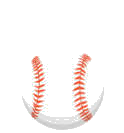
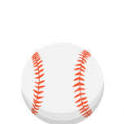
Balones mas grandes y con recorte circular limpio

diff --git a/backend/src/main/resources/static/assets/index-DDRv2PJQ.js b/backend/src/main/resources/static/assets/index-DDRv2PJQ.js
@@ -64,4 +64,4 @@ Error generating stack: `+i.message+`
  * LICENSE.md file in the root directory of this source tree.
  *
  * @license MIT
- */function oo(){return oo=Object.assign?Object.assign.bind():function(e){for(var t=1;t<arguments.length;t++){var n=arguments[t];for(var r in n)({}).hasOwnProperty.call(n,r)&&(e[r]=n[r])}return e},oo.apply(null,arguments)}function Nh(e,t){if(e==null)return{};var n={};for(var r in e)if({}.hasOwnProperty.call(e,r)){if(t.indexOf(r)!==-1)continue;n[r]=e[r]}return n}function Ph(e){return!!(e.metaKey||e.altKey||e.ctrlKey||e.shiftKey)}function _h(e,t){return e.button===0&&(!t||t==="_self")&&!Ph(e)}const jh=["onClick","relative","reloadDocument","replace","state","target","to","preventScrollReset","viewTransition"],zh="6";try{window.__reactRouterVersion=zh}catch{}const Rh="startTransition",Ss=kf[Rh];function Th(e){let{basename:t,children:n,future:r,window:l}=e,i=S.useRef();i.current==null&&(i.current=Ip({window:l,v5Compat:!0}));let o=i.current,[u,s]=S.useState({action:o.action,location:o.location}),{v7_startTransition:a}=r||{},h=S.useCallback(p=>{a&&Ss?Ss(()=>s(p)):s(p)},[s,a]);return S.useLayoutEffect(()=>o.listen(h),[o,h]),S.useEffect(()=>Sh(r),[r]),S.createElement(Eh,{basename:t,children:n,location:u.location,navigationType:u.action,navigator:o,future:r})}const Lh=typeof window<"u"&&typeof window.document<"u"&&typeof window.document.createElement<"u",Oh=/^(?:[a-z][a-z0-9+.-]*:|\/\/)/i,qc=S.forwardRef(function(t,n){let{onClick:r,relative:l,reloadDocument:i,replace:o,state:u,target:s,to:a,preventScrollReset:h,viewTransition:p}=t,m=Nh(t,jh),{basename:y}=S.useContext(Et),w,x=!1;if(typeof a=="string"&&Oh.test(a)&&(w=a,Lh))try{let f=new URL(window.location.href),g=a.startsWith("//")?new URL(f.protocol+a):new URL(a),E=nu(g.pathname,y);g.origin===f.origin&&E!=null?a=E+g.search+g.hash:x=!0}catch{}let C=oh(a,{relative:l}),d=Ih(a,{replace:o,state:u,target:s,preventScrollReset:h,relative:l,viewTransition:p});function c(f){r&&r(f),f.defaultPrevented||d(f)}return S.createElement("a",oo({},m,{href:w||C,onClick:x||i?r:c,ref:n,target:s}))});var ks;(function(e){e.UseScrollRestoration="useScrollRestoration",e.UseSubmit="useSubmit",e.UseSubmitFetcher="useSubmitFetcher",e.UseFetcher="useFetcher",e.useViewTransitionState="useViewTransitionState"})(ks||(ks={}));var Es;(function(e){e.UseFetcher="useFetcher",e.UseFetchers="useFetchers",e.UseScrollRestoration="useScrollRestoration"})(Es||(Es={}));function Ih(e,t){let{target:n,replace:r,state:l,preventScrollReset:i,relative:o,viewTransition:u}=t===void 0?{}:t,s=At(),a=pr(),h=Jc(e,{relative:o});return S.useCallback(p=>{if(_h(p,n)){p.preventDefault();let m=r!==void 0?r:ml(a)===ml(h);s(e,{replace:m,state:l,preventScrollReset:i,relative:o,viewTransition:u})}},[a,s,h,r,l,n,e,i,o,u])}const Mh="/api";function Dh(){return localStorage.getItem("token")}function bc(e){localStorage.setItem("token",e)}function ef(){localStorage.removeItem("token")}function xn(){const e=localStorage.getItem("usuario");return e?JSON.parse(e):null}function tf(e){localStorage.setItem("usuario",JSON.stringify(e))}async function We(e,t={}){const n=Dh(),r={"Content-Type":"application/json"};n&&(r.Authorization=`Bearer ${n}`);const l=await fetch(Mh+e,{...t,headers:r});if(l.status===401){ef(),window.location.href="/login";return}return l.json()}function Fh(e,t){return We("/auth/login",{method:"POST",body:JSON.stringify({email:e,password:t})})}function Uh(e,t,n,r){return We("/auth/register",{method:"POST",body:JSON.stringify({nombre:e,email:t,password:n,rol:r})})}function Cs(){return We("/equipos")}function $h(e){return We("/equipos",{method:"POST",body:JSON.stringify({nombre:e})})}function Ns(e){return We("/equipos/"+e)}function Ah(e,t){return We("/equipos/"+e+"/jugadores",{method:"POST",body:JSON.stringify({email:t})})}function Ps(e){return We("/equipos/"+e+"/convocatorias")}function Bh(e,t){return We("/equipos/"+e+"/convocatorias",{method:"POST",body:JSON.stringify(t)})}function _s(e){return We("/convocatorias/"+e+"/asistencia")}function Wh(e,t){return We("/convocatorias/"+e+"/asistencia",{method:"PUT",body:JSON.stringify({estado:t})})}function Vh(){const e=At(),t=xn();function n(){ef(),localStorage.removeItem("usuario"),e("/login")}return v.jsxs("nav",{className:"navbar",children:[v.jsx("h1",{style:{cursor:"pointer"},onClick:()=>e("/"),children:"ClubPlan"}),v.jsxs("div",{className:"navbar-right",children:[v.jsxs("span",{className:"navbar-user",children:[v.jsx("strong",{children:t==null?void 0:t.nombre})," · ",(t==null?void 0:t.rol)==="ENTRENADOR"?"Entrenador":"Jugador"]}),v.jsx("button",{onClick:n,children:"Cerrar sesion"})]})]})}const Hh=["/balls/soccer.png","/balls/basketball.png","/balls/baseball.png","/balls/tennis.png","/balls/volleyball.png","/balls/football.png","/balls/hockey.png"],ai=[{size:90,speed:2.5,rot:1.2},{size:100,speed:3,rot:-1},{size:80,speed:2.8,rot:1.4},{size:70,speed:3.5,rot:-1.6},{size:95,speed:2.2,rot:.9},{size:75,speed:3.2,rot:-1.3},{size:65,speed:3.8,rot:1.5}];function Qh(){const[e,t]=S.useState(""),[n,r]=S.useState(""),[l,i]=S.useState(""),o=At(),u=S.useRef(null),s=S.useRef(null),a=S.useRef([]),h=S.useRef([]);function p(y,w){const x=y.getBoundingClientRect(),C=w.getBoundingClientRect();return{left:C.left-x.left-30,top:C.top-x.top-30,right:C.right-x.left+30,bottom:C.bottom-x.top+30}}S.useLayoutEffect(()=>{const y=u.current,w=s.current;if(!y||!w)return;const x=y.clientWidth,C=y.clientHeight,d=p(y,w);h.current=ai.map((g,E)=>{let _,j,z=0;do _=Math.random()*(x-g.size),j=Math.random()*(C-g.size),z++;while(z<100&&_+g.size>d.left&&_<d.right&&j+g.size>d.top&&j<d.bottom);const N=Math.PI*2/ai.length*E+Math.random()*.5;return{x:_,y:j,dx:Math.cos(N)*g.speed,dy:Math.sin(N)*g.speed,r:Math.random()*360,dr:g.rot,size:g.size}}),h.current.forEach((g,E)=>{a.current[E]&&(a.current[E].style.transform="translate("+g.x+"px,"+g.y+"px) rotate("+g.r+"deg)")});let c;function f(){const g=u.current,E=s.current;if(!g||!E)return;const _=g.clientWidth,j=g.clientHeight,z=p(g,E);h.current.forEach((N,L)=>{let Q=N.x+N.dx,se=N.y+N.dy;if(N.r+=N.dr,Q<=0&&(Q=0,N.dx=Math.abs(N.dx)),Q>=_-N.size&&(Q=_-N.size,N.dx=-Math.abs(N.dx)),se<=0&&(se=0,N.dy=Math.abs(N.dy)),se>=j-N.size&&(se=j-N.size,N.dy=-Math.abs(N.dy)),Q+N.size>z.left&&Q<z.right&&se+N.size>z.top&&se<z.bottom){const et=N.x+N.size>z.left&&N.x<z.right,Sn=N.y+N.size>z.top&&N.y<z.bottom;et||(N.dx=-N.dx,Q=N.x+N.dx),Sn||(N.dy=-N.dy,se=N.y+N.dy),et&&Sn&&(N.dx=-N.dx,N.dy=-N.dy,Q=N.x+N.dx,se=N.y+N.dy)}N.x=Q,N.y=se,a.current[L]&&(a.current[L].style.transform="translate("+N.x+"px,"+N.y+"px) rotate("+N.r+"deg)")}),c=requestAnimationFrame(f)}return c=requestAnimationFrame(f),()=>cancelAnimationFrame(c)},[]);async function m(y){y.preventDefault();const w=await Fh(e,n);w.error?i(w.error):(bc(w.token),tf(w.usuario),o("/"))}return v.jsxs("div",{className:"login-bg",ref:u,children:[ai.map((y,w)=>v.jsx("div",{ref:x=>a.current[w]=x,className:"bouncing-icon",children:v.jsx("img",{src:Hh[w],alt:"",width:y.size,height:y.size,draggable:"false"})},w)),v.jsxs("div",{className:"login-card",ref:s,children:[v.jsx("div",{className:"login-logo",children:"ClubPlan"}),v.jsx("h2",{children:"Iniciar sesion"}),v.jsx("p",{className:"login-subtitle",children:"Gestiona tus equipos y convocatorias"}),l&&v.jsx("p",{className:"error",children:l}),v.jsxs("form",{onSubmit:m,children:[v.jsxs("div",{className:"form-group",children:[v.jsx("label",{children:"Email"}),v.jsx("input",{type:"email",value:e,onChange:y=>t(y.target.value),placeholder:"tu@email.com",required:!0})]}),v.jsxs("div",{className:"form-group",children:[v.jsx("label",{children:"Contrasena"}),v.jsx("input",{type:"password",value:n,onChange:y=>r(y.target.value),placeholder:"Tu contrasena",required:!0})]}),v.jsx("button",{type:"submit",className:"btn btn-primary",style:{width:"100%",padding:"14px"},children:"Entrar"})]}),v.jsxs("p",{style:{marginTop:"20px",textAlign:"center",fontSize:"0.9rem",color:"var(--texto-suave)"},children:["No tienes cuenta? ",v.jsx(qc,{to:"/register",style:{color:"var(--primary)",fontWeight:"600",textDecoration:"none"},children:"Registrate"})]})]})]})}function Kh(){const[e,t]=S.useState(""),[n,r]=S.useState(""),[l,i]=S.useState(""),[o,u]=S.useState("JUGADOR"),[s,a]=S.useState(""),h=At();async function p(m){m.preventDefault();const y=await Uh(e,n,l,o);y.error?a(y.error):(bc(y.token),tf(y.usuario),h("/"))}return v.jsx("div",{className:"login-bg",children:v.jsxs("div",{className:"login-card",children:[v.jsx("div",{className:"login-logo",children:"ClubPlan"}),v.jsx("h2",{children:"Crear cuenta"}),v.jsx("p",{className:"login-subtitle",children:"Unete a tu equipo"}),s&&v.jsx("p",{className:"error",children:s}),v.jsxs("form",{onSubmit:p,children:[v.jsxs("div",{className:"form-group",children:[v.jsx("label",{children:"Nombre"}),v.jsx("input",{value:e,onChange:m=>t(m.target.value),placeholder:"Tu nombre",required:!0})]}),v.jsxs("div",{className:"form-group",children:[v.jsx("label",{children:"Email"}),v.jsx("input",{type:"email",value:n,onChange:m=>r(m.target.value),placeholder:"tu@email.com",required:!0})]}),v.jsxs("div",{className:"form-group",children:[v.jsx("label",{children:"Contrasena"}),v.jsx("input",{type:"password",value:l,onChange:m=>i(m.target.value),placeholder:"Tu contrasena",required:!0})]}),v.jsxs("div",{className:"form-group",children:[v.jsx("label",{children:"Rol"}),v.jsxs("select",{value:o,onChange:m=>u(m.target.value),children:[v.jsx("option",{value:"ENTRENADOR",children:"Entrenador"}),v.jsx("option",{value:"JUGADOR",children:"Jugador"})]})]}),v.jsx("button",{type:"submit",className:"btn btn-primary",style:{width:"100%",padding:"14px"},children:"Registrarme"})]}),v.jsxs("p",{style:{marginTop:"20px",textAlign:"center",fontSize:"0.9rem",color:"var(--texto-suave)"},children:["Ya tienes cuenta? ",v.jsx(qc,{to:"/login",style:{color:"var(--primary)",fontWeight:"600",textDecoration:"none"},children:"Inicia sesion"})]})]})})}function Yh(){const[e,t]=S.useState([]),[n,r]=S.useState(""),[l,i]=S.useState(!1),o=At(),u=xn();S.useEffect(()=>{Cs().then(t)},[]);async function s(a){a.preventDefault(),await $h(n),r(""),i(!1),Cs().then(t)}return v.jsxs("div",{className:"container",children:[v.jsxs("div",{className:"flex-between",children:[v.jsxs("div",{className:"page-header",children:[v.jsx("h2",{children:"Mis equipos"}),v.jsxs("p",{children:[e.length," equipo",e.length!==1?"s":""]})]}),(u==null?void 0:u.rol)==="ENTRENADOR"&&v.jsx("button",{className:"btn btn-primary",onClick:()=>i(!l),children:l?"Cancelar":"+ Nuevo equipo"})]}),l&&v.jsxs("form",{onSubmit:s,className:"card",style:{display:"flex",gap:"12px",alignItems:"flex-end"},children:[v.jsxs("div",{style:{flex:1},children:[v.jsx("label",{style:{display:"block",marginBottom:"6px",fontWeight:"600",fontSize:"0.85rem"},children:"Nombre del equipo"}),v.jsx("input",{placeholder:"Ej: Juvenil A",value:n,onChange:a=>r(a.target.value),required:!0,style:{width:"100%",padding:"12px 14px",border:"2px solid var(--borde)",borderRadius:"10px",fontSize:"0.95rem",fontFamily:"inherit"}})]}),v.jsx("button",{type:"submit",className:"btn btn-primary",style:{height:"46px"},children:"Crear"})]}),v.jsx("div",{className:"grid",children:e.map(a=>{var h;return v.jsxs("div",{className:"card card-clickable",onClick:()=>o("/equipo/"+a.id),children:[v.jsx("div",{className:"card-icon card-icon-purple",children:"⚽"}),v.jsx("h3",{children:a.nombre}),v.jsxs("p",{children:["Entrenador: ",((h=a.entrenador)==null?void 0:h.nombre)||"Tu"]})]},a.id)})}),e.length===0&&v.jsxs("div",{className:"empty-state",children:[v.jsx("div",{className:"empty-icon",children:"⚽"}),v.jsx("p",{children:"No tienes equipos todavia"})]})]})}function Jh(){var C,d,c;const{id:e}=Yc(),t=At(),n=xn(),[r,l]=S.useState(null),[i,o]=S.useState([]),[u,s]=S.useState(""),[a,h]=S.useState({titulo:"",descripcion:"",fecha:"",lugar:""}),[p,m]=S.useState(!1);S.useEffect(()=>{Ns(e).then(l),Ps(e).then(o)},[e]);const y=((C=r==null?void 0:r.entrenador)==null?void 0:C.id)===(n==null?void 0:n.id);async function w(f){f.preventDefault(),await Ah(e,u),s(""),Ns(e).then(l)}async function x(f){f.preventDefault(),await Bh(e,a),h({titulo:"",descripcion:"",fecha:"",lugar:""}),m(!1),Ps(e).then(o)}return r?v.jsxs("div",{className:"container",children:[v.jsxs("div",{className:"page-header",children:[v.jsx("h2",{children:r.nombre}),v.jsxs("p",{children:["Entrenador: ",r.entrenador.nombre," — ",((d=r.jugadores)==null?void 0:d.length)||0," jugadores"]})]}),y&&v.jsxs("div",{className:"card",children:[v.jsx("h3",{style:{marginBottom:"16px"},children:"Jugadores del equipo"}),(c=r.jugadores)==null?void 0:c.map(f=>v.jsx("div",{className:"jugador-row",children:v.jsxs("div",{className:"jugador-info",children:[v.jsx("div",{className:"jugador-avatar",children:f.nombre.charAt(0).toUpperCase()}),v.jsxs("div",{children:[v.jsx("div",{style:{fontWeight:"600",fontSize:"0.95rem"},children:f.nombre}),v.jsx("div",{style:{color:"var(--texto-suave)",fontSize:"0.8rem"},children:f.email})]})]})},f.id)),(!r.jugadores||r.jugadores.length===0)&&v.jsx("p",{style:{color:"var(--texto-suave)",fontSize:"0.9rem",marginBottom:"12px"},children:"No hay jugadores todavia"}),v.jsxs("form",{onSubmit:w,style:{display:"flex",gap:"8px",marginTop:"16px"},children:[v.jsx("input",{type:"email",placeholder:"Email del jugador",value:u,onChange:f=>s(f.target.value),required:!0,style:{flex:1,padding:"10px 14px",border:"2px solid var(--borde)",borderRadius:"10px",fontSize:"0.9rem",fontFamily:"inherit"}}),v.jsx("button",{type:"submit",className:"btn btn-outline",children:"Anadir"})]})]}),v.jsxs("div",{className:"flex-between",style:{marginTop:"28px"},children:[v.jsx("h3",{style:{fontSize:"1.2rem",fontWeight:"700"},children:"Convocatorias"}),y&&v.jsx("button",{className:"btn btn-primary",onClick:()=>m(!p),children:p?"Cancelar":"+ Nueva convocatoria"})]}),p&&v.jsxs("form",{onSubmit:x,className:"card",children:[v.jsxs("div",{className:"form-group",children:[v.jsx("label",{children:"Titulo"}),v.jsx("input",{value:a.titulo,onChange:f=>h({...a,titulo:f.target.value}),placeholder:"Ej: Partido vs Alzira",required:!0})]}),v.jsxs("div",{className:"form-group",children:[v.jsx("label",{children:"Descripcion"}),v.jsx("textarea",{value:a.descripcion,onChange:f=>h({...a,descripcion:f.target.value}),rows:"3",placeholder:"Detalles de la convocatoria"})]}),v.jsxs("div",{style:{display:"grid",gridTemplateColumns:"1fr 1fr",gap:"12px"},children:[v.jsxs("div",{className:"form-group",children:[v.jsx("label",{children:"Fecha y hora"}),v.jsx("input",{type:"datetime-local",value:a.fecha,onChange:f=>h({...a,fecha:f.target.value}),required:!0})]}),v.jsxs("div",{className:"form-group",children:[v.jsx("label",{children:"Lugar"}),v.jsx("input",{value:a.lugar,onChange:f=>h({...a,lugar:f.target.value}),placeholder:"Ej: Campo Municipal"})]})]}),v.jsx("button",{type:"submit",className:"btn btn-primary",children:"Crear convocatoria"})]}),i.map(f=>v.jsx("div",{className:"card card-clickable",onClick:()=>t("/convocatoria/"+f.id),children:v.jsxs("div",{style:{display:"flex",justifyContent:"space-between",alignItems:"center"},children:[v.jsxs("div",{children:[v.jsx("h3",{children:f.titulo}),v.jsxs("p",{children:[f.lugar," — ",new Date(f.fecha).toLocaleString("es-ES")]})]}),v.jsx("span",{style:{color:"var(--primary)",fontSize:"1.2rem"},children:"›"})]})},f.id)),i.length===0&&v.jsxs("div",{className:"empty-state",children:[v.jsx("div",{className:"empty-icon",children:"📅"}),v.jsx("p",{children:"No hay convocatorias todavia"})]})]}):v.jsx("div",{className:"container",children:v.jsx("p",{children:"Cargando..."})})}function Xh(){const{id:e}=Yc(),t=xn(),[n,r]=S.useState([]);S.useEffect(()=>{_s(e).then(r)},[e]);async function l(a){await Wh(e,a),_s(e).then(r)}const i=n.find(a=>a.jugador.id===(t==null?void 0:t.id)),o=n.filter(a=>a.estado==="CONFIRMADO").length,u=n.filter(a=>a.estado==="RECHAZADO").length,s=n.filter(a=>a.estado==="PENDIENTE").length;return v.jsxs("div",{className:"container",children:[v.jsxs("div",{className:"page-header",children:[v.jsx("h2",{children:"Asistencia"}),v.jsxs("p",{children:[n.length," jugadores convocados"]})]}),v.jsxs("div",{className:"stat-cards",children:[v.jsxs("div",{className:"stat-card",children:[v.jsx("div",{className:"stat-number",style:{color:"var(--accent)"},children:o}),v.jsx("p",{children:"Confirmados"})]}),v.jsxs("div",{className:"stat-card",children:[v.jsx("div",{className:"stat-number",style:{color:"var(--rojo)"},children:u}),v.jsx("p",{children:"Rechazados"})]}),v.jsxs("div",{className:"stat-card",children:[v.jsx("div",{className:"stat-number",style:{color:"var(--amarillo)"},children:s}),v.jsx("p",{children:"Pendientes"})]})]}),i&&v.jsxs("div",{className:"card",children:[v.jsx("h3",{style:{marginBottom:"12px"},children:"Tu respuesta"}),v.jsxs("p",{style:{marginBottom:"16px"},children:["Estado actual: ",v.jsx("span",{className:"badge badge-"+i.estado.toLowerCase(),children:i.estado})]}),v.jsxs("div",{style:{display:"flex",gap:"10px"},children:[v.jsx("button",{className:"btn btn-accent",onClick:()=>l("CONFIRMADO"),children:"Confirmar asistencia"}),v.jsx("button",{className:"btn btn-danger",onClick:()=>l("RECHAZADO"),children:"No puedo ir"})]})]}),v.jsx("h3",{style:{marginTop:"28px",marginBottom:"16px",fontSize:"1.1rem",fontWeight:"700"},children:"Lista de jugadores"}),n.map(a=>v.jsx("div",{className:"card",style:{padding:"16px 24px"},children:v.jsxs("div",{className:"jugador-row",style:{borderBottom:"none",padding:0},children:[v.jsxs("div",{className:"jugador-info",children:[v.jsx("div",{className:"jugador-avatar",children:a.jugador.nombre.charAt(0).toUpperCase()}),v.jsx("span",{style:{fontWeight:"600"},children:a.jugador.nombre})]}),v.jsx("span",{className:"badge badge-"+a.estado.toLowerCase(),children:a.estado})]})},a.id))]})}function ci({children:e}){return xn()?e:v.jsx(kh,{to:"/login"})}function Gh(){return v.jsxs(v.Fragment,{children:[xn()&&v.jsx(Vh,{}),v.jsxs(Ch,{children:[v.jsx(Wt,{path:"/login",element:v.jsx(Qh,{})}),v.jsx(Wt,{path:"/register",element:v.jsx(Kh,{})}),v.jsx(Wt,{path:"/",element:v.jsx(ci,{children:v.jsx(Yh,{})})}),v.jsx(Wt,{path:"/equipo/:id",element:v.jsx(ci,{children:v.jsx(Jh,{})})}),v.jsx(Wt,{path:"/convocatoria/:id",element:v.jsx(ci,{children:v.jsx(Xh,{})})})]})]})}fi.createRoot(document.getElementById("root")).render(v.jsx(Th,{children:v.jsx(Gh,{})}));
+ */function oo(){return oo=Object.assign?Object.assign.bind():function(e){for(var t=1;t<arguments.length;t++){var n=arguments[t];for(var r in n)({}).hasOwnProperty.call(n,r)&&(e[r]=n[r])}return e},oo.apply(null,arguments)}function Nh(e,t){if(e==null)return{};var n={};for(var r in e)if({}.hasOwnProperty.call(e,r)){if(t.indexOf(r)!==-1)continue;n[r]=e[r]}return n}function Ph(e){return!!(e.metaKey||e.altKey||e.ctrlKey||e.shiftKey)}function _h(e,t){return e.button===0&&(!t||t==="_self")&&!Ph(e)}const jh=["onClick","relative","reloadDocument","replace","state","target","to","preventScrollReset","viewTransition"],zh="6";try{window.__reactRouterVersion=zh}catch{}const Rh="startTransition",Ss=kf[Rh];function Th(e){let{basename:t,children:n,future:r,window:l}=e,i=S.useRef();i.current==null&&(i.current=Ip({window:l,v5Compat:!0}));let o=i.current,[u,s]=S.useState({action:o.action,location:o.location}),{v7_startTransition:a}=r||{},h=S.useCallback(p=>{a&&Ss?Ss(()=>s(p)):s(p)},[s,a]);return S.useLayoutEffect(()=>o.listen(h),[o,h]),S.useEffect(()=>Sh(r),[r]),S.createElement(Eh,{basename:t,children:n,location:u.location,navigationType:u.action,navigator:o,future:r})}const Lh=typeof window<"u"&&typeof window.document<"u"&&typeof window.document.createElement<"u",Oh=/^(?:[a-z][a-z0-9+.-]*:|\/\/)/i,qc=S.forwardRef(function(t,n){let{onClick:r,relative:l,reloadDocument:i,replace:o,state:u,target:s,to:a,preventScrollReset:h,viewTransition:p}=t,m=Nh(t,jh),{basename:y}=S.useContext(Et),w,x=!1;if(typeof a=="string"&&Oh.test(a)&&(w=a,Lh))try{let f=new URL(window.location.href),g=a.startsWith("//")?new URL(f.protocol+a):new URL(a),E=nu(g.pathname,y);g.origin===f.origin&&E!=null?a=E+g.search+g.hash:x=!0}catch{}let C=oh(a,{relative:l}),d=Ih(a,{replace:o,state:u,target:s,preventScrollReset:h,relative:l,viewTransition:p});function c(f){r&&r(f),f.defaultPrevented||d(f)}return S.createElement("a",oo({},m,{href:w||C,onClick:x||i?r:c,ref:n,target:s}))});var ks;(function(e){e.UseScrollRestoration="useScrollRestoration",e.UseSubmit="useSubmit",e.UseSubmitFetcher="useSubmitFetcher",e.UseFetcher="useFetcher",e.useViewTransitionState="useViewTransitionState"})(ks||(ks={}));var Es;(function(e){e.UseFetcher="useFetcher",e.UseFetchers="useFetchers",e.UseScrollRestoration="useScrollRestoration"})(Es||(Es={}));function Ih(e,t){let{target:n,replace:r,state:l,preventScrollReset:i,relative:o,viewTransition:u}=t===void 0?{}:t,s=At(),a=pr(),h=Jc(e,{relative:o});return S.useCallback(p=>{if(_h(p,n)){p.preventDefault();let m=r!==void 0?r:ml(a)===ml(h);s(e,{replace:m,state:l,preventScrollReset:i,relative:o,viewTransition:u})}},[a,s,h,r,l,n,e,i,o,u])}const Mh="/api";function Dh(){return localStorage.getItem("token")}function bc(e){localStorage.setItem("token",e)}function ef(){localStorage.removeItem("token")}function xn(){const e=localStorage.getItem("usuario");return e?JSON.parse(e):null}function tf(e){localStorage.setItem("usuario",JSON.stringify(e))}async function We(e,t={}){const n=Dh(),r={"Content-Type":"application/json"};n&&(r.Authorization=`Bearer ${n}`);const l=await fetch(Mh+e,{...t,headers:r});if(l.status===401){ef(),window.location.href="/login";return}return l.json()}function Fh(e,t){return We("/auth/login",{method:"POST",body:JSON.stringify({email:e,password:t})})}function Uh(e,t,n,r){return We("/auth/register",{method:"POST",body:JSON.stringify({nombre:e,email:t,password:n,rol:r})})}function Cs(){return We("/equipos")}function $h(e){return We("/equipos",{method:"POST",body:JSON.stringify({nombre:e})})}function Ns(e){return We("/equipos/"+e)}function Ah(e,t){return We("/equipos/"+e+"/jugadores",{method:"POST",body:JSON.stringify({email:t})})}function Ps(e){return We("/equipos/"+e+"/convocatorias")}function Bh(e,t){return We("/equipos/"+e+"/convocatorias",{method:"POST",body:JSON.stringify(t)})}function _s(e){return We("/convocatorias/"+e+"/asistencia")}function Wh(e,t){return We("/convocatorias/"+e+"/asistencia",{method:"PUT",body:JSON.stringify({estado:t})})}function Vh(){const e=At(),t=xn();function n(){ef(),localStorage.removeItem("usuario"),e("/login")}return v.jsxs("nav",{className:"navbar",children:[v.jsx("h1",{style:{cursor:"pointer"},onClick:()=>e("/"),children:"ClubPlan"}),v.jsxs("div",{className:"navbar-right",children:[v.jsxs("span",{className:"navbar-user",children:[v.jsx("strong",{children:t==null?void 0:t.nombre})," · ",(t==null?void 0:t.rol)==="ENTRENADOR"?"Entrenador":"Jugador"]}),v.jsx("button",{onClick:n,children:"Cerrar sesion"})]})]})}const Hh=["/balls/soccer.png","/balls/basketball.png","/balls/baseball.png","/balls/tennis.png","/balls/volleyball.png","/balls/football.png","/balls/hockey.png"],ai=[{size:120,speed:2.5,rot:1.2},{size:140,speed:3,rot:-1},{size:110,speed:2.8,rot:1.4},{size:100,speed:3.5,rot:-1.6},{size:130,speed:2.2,rot:.9},{size:105,speed:3.2,rot:-1.3},{size:95,speed:3.8,rot:1.5}];function Qh(){const[e,t]=S.useState(""),[n,r]=S.useState(""),[l,i]=S.useState(""),o=At(),u=S.useRef(null),s=S.useRef(null),a=S.useRef([]),h=S.useRef([]);function p(y,w){const x=y.getBoundingClientRect(),C=w.getBoundingClientRect();return{left:C.left-x.left-30,top:C.top-x.top-30,right:C.right-x.left+30,bottom:C.bottom-x.top+30}}S.useLayoutEffect(()=>{const y=u.current,w=s.current;if(!y||!w)return;const x=y.clientWidth,C=y.clientHeight,d=p(y,w);h.current=ai.map((g,E)=>{let _,j,z=0;do _=Math.random()*(x-g.size),j=Math.random()*(C-g.size),z++;while(z<100&&_+g.size>d.left&&_<d.right&&j+g.size>d.top&&j<d.bottom);const N=Math.PI*2/ai.length*E+Math.random()*.5;return{x:_,y:j,dx:Math.cos(N)*g.speed,dy:Math.sin(N)*g.speed,r:Math.random()*360,dr:g.rot,size:g.size}}),h.current.forEach((g,E)=>{a.current[E]&&(a.current[E].style.transform="translate("+g.x+"px,"+g.y+"px) rotate("+g.r+"deg)")});let c;function f(){const g=u.current,E=s.current;if(!g||!E)return;const _=g.clientWidth,j=g.clientHeight,z=p(g,E);h.current.forEach((N,L)=>{let Q=N.x+N.dx,se=N.y+N.dy;if(N.r+=N.dr,Q<=0&&(Q=0,N.dx=Math.abs(N.dx)),Q>=_-N.size&&(Q=_-N.size,N.dx=-Math.abs(N.dx)),se<=0&&(se=0,N.dy=Math.abs(N.dy)),se>=j-N.size&&(se=j-N.size,N.dy=-Math.abs(N.dy)),Q+N.size>z.left&&Q<z.right&&se+N.size>z.top&&se<z.bottom){const et=N.x+N.size>z.left&&N.x<z.right,Sn=N.y+N.size>z.top&&N.y<z.bottom;et||(N.dx=-N.dx,Q=N.x+N.dx),Sn||(N.dy=-N.dy,se=N.y+N.dy),et&&Sn&&(N.dx=-N.dx,N.dy=-N.dy,Q=N.x+N.dx,se=N.y+N.dy)}N.x=Q,N.y=se,a.current[L]&&(a.current[L].style.transform="translate("+N.x+"px,"+N.y+"px) rotate("+N.r+"deg)")}),c=requestAnimationFrame(f)}return c=requestAnimationFrame(f),()=>cancelAnimationFrame(c)},[]);async function m(y){y.preventDefault();const w=await Fh(e,n);w.error?i(w.error):(bc(w.token),tf(w.usuario),o("/"))}return v.jsxs("div",{className:"login-bg",ref:u,children:[ai.map((y,w)=>v.jsx("div",{ref:x=>a.current[w]=x,className:"bouncing-icon",children:v.jsx("img",{src:Hh[w],alt:"",width:y.size,height:y.size,draggable:"false"})},w)),v.jsxs("div",{className:"login-card",ref:s,children:[v.jsx("div",{className:"login-logo",children:"ClubPlan"}),v.jsx("h2",{children:"Iniciar sesion"}),v.jsx("p",{className:"login-subtitle",children:"Gestiona tus equipos y convocatorias"}),l&&v.jsx("p",{className:"error",children:l}),v.jsxs("form",{onSubmit:m,children:[v.jsxs("div",{className:"form-group",children:[v.jsx("label",{children:"Email"}),v.jsx("input",{type:"email",value:e,onChange:y=>t(y.target.value),placeholder:"tu@email.com",required:!0})]}),v.jsxs("div",{className:"form-group",children:[v.jsx("label",{children:"Contrasena"}),v.jsx("input",{type:"password",value:n,onChange:y=>r(y.target.value),placeholder:"Tu contrasena",required:!0})]}),v.jsx("button",{type:"submit",className:"btn btn-primary",style:{width:"100%",padding:"14px"},children:"Entrar"})]}),v.jsxs("p",{style:{marginTop:"20px",textAlign:"center",fontSize:"0.9rem",color:"var(--texto-suave)"},children:["No tienes cuenta? ",v.jsx(qc,{to:"/register",style:{color:"var(--primary)",fontWeight:"600",textDecoration:"none"},children:"Registrate"})]})]})]})}function Kh(){const[e,t]=S.useState(""),[n,r]=S.useState(""),[l,i]=S.useState(""),[o,u]=S.useState("JUGADOR"),[s,a]=S.useState(""),h=At();async function p(m){m.preventDefault();const y=await Uh(e,n,l,o);y.error?a(y.error):(bc(y.token),tf(y.usuario),h("/"))}return v.jsx("div",{className:"login-bg",children:v.jsxs("div",{className:"login-card",children:[v.jsx("div",{className:"login-logo",children:"ClubPlan"}),v.jsx("h2",{children:"Crear cuenta"}),v.jsx("p",{className:"login-subtitle",children:"Unete a tu equipo"}),s&&v.jsx("p",{className:"error",children:s}),v.jsxs("form",{onSubmit:p,children:[v.jsxs("div",{className:"form-group",children:[v.jsx("label",{children:"Nombre"}),v.jsx("input",{value:e,onChange:m=>t(m.target.value),placeholder:"Tu nombre",required:!0})]}),v.jsxs("div",{className:"form-group",children:[v.jsx("label",{children:"Email"}),v.jsx("input",{type:"email",value:n,onChange:m=>r(m.target.value),placeholder:"tu@email.com",required:!0})]}),v.jsxs("div",{className:"form-group",children:[v.jsx("label",{children:"Contrasena"}),v.jsx("input",{type:"password",value:l,onChange:m=>i(m.target.value),placeholder:"Tu contrasena",required:!0})]}),v.jsxs("div",{className:"form-group",children:[v.jsx("label",{children:"Rol"}),v.jsxs("select",{value:o,onChange:m=>u(m.target.value),children:[v.jsx("option",{value:"ENTRENADOR",children:"Entrenador"}),v.jsx("option",{value:"JUGADOR",children:"Jugador"})]})]}),v.jsx("button",{type:"submit",className:"btn btn-primary",style:{width:"100%",padding:"14px"},children:"Registrarme"})]}),v.jsxs("p",{style:{marginTop:"20px",textAlign:"center",fontSize:"0.9rem",color:"var(--texto-suave)"},children:["Ya tienes cuenta? ",v.jsx(qc,{to:"/login",style:{color:"var(--primary)",fontWeight:"600",textDecoration:"none"},children:"Inicia sesion"})]})]})})}function Yh(){const[e,t]=S.useState([]),[n,r]=S.useState(""),[l,i]=S.useState(!1),o=At(),u=xn();S.useEffect(()=>{Cs().then(t)},[]);async function s(a){a.preventDefault(),await $h(n),r(""),i(!1),Cs().then(t)}return v.jsxs("div",{className:"container",children:[v.jsxs("div",{className:"flex-between",children:[v.jsxs("div",{className:"page-header",children:[v.jsx("h2",{children:"Mis equipos"}),v.jsxs("p",{children:[e.length," equipo",e.length!==1?"s":""]})]}),(u==null?void 0:u.rol)==="ENTRENADOR"&&v.jsx("button",{className:"btn btn-primary",onClick:()=>i(!l),children:l?"Cancelar":"+ Nuevo equipo"})]}),l&&v.jsxs("form",{onSubmit:s,className:"card",style:{display:"flex",gap:"12px",alignItems:"flex-end"},children:[v.jsxs("div",{style:{flex:1},children:[v.jsx("label",{style:{display:"block",marginBottom:"6px",fontWeight:"600",fontSize:"0.85rem"},children:"Nombre del equipo"}),v.jsx("input",{placeholder:"Ej: Juvenil A",value:n,onChange:a=>r(a.target.value),required:!0,style:{width:"100%",padding:"12px 14px",border:"2px solid var(--borde)",borderRadius:"10px",fontSize:"0.95rem",fontFamily:"inherit"}})]}),v.jsx("button",{type:"submit",className:"btn btn-primary",style:{height:"46px"},children:"Crear"})]}),v.jsx("div",{className:"grid",children:e.map(a=>{var h;return v.jsxs("div",{className:"card card-clickable",onClick:()=>o("/equipo/"+a.id),children:[v.jsx("div",{className:"card-icon card-icon-purple",children:"⚽"}),v.jsx("h3",{children:a.nombre}),v.jsxs("p",{children:["Entrenador: ",((h=a.entrenador)==null?void 0:h.nombre)||"Tu"]})]},a.id)})}),e.length===0&&v.jsxs("div",{className:"empty-state",children:[v.jsx("div",{className:"empty-icon",children:"⚽"}),v.jsx("p",{children:"No tienes equipos todavia"})]})]})}function Jh(){var C,d,c;const{id:e}=Yc(),t=At(),n=xn(),[r,l]=S.useState(null),[i,o]=S.useState([]),[u,s]=S.useState(""),[a,h]=S.useState({titulo:"",descripcion:"",fecha:"",lugar:""}),[p,m]=S.useState(!1);S.useEffect(()=>{Ns(e).then(l),Ps(e).then(o)},[e]);const y=((C=r==null?void 0:r.entrenador)==null?void 0:C.id)===(n==null?void 0:n.id);async function w(f){f.preventDefault(),await Ah(e,u),s(""),Ns(e).then(l)}async function x(f){f.preventDefault(),await Bh(e,a),h({titulo:"",descripcion:"",fecha:"",lugar:""}),m(!1),Ps(e).then(o)}return r?v.jsxs("div",{className:"container",children:[v.jsxs("div",{className:"page-header",children:[v.jsx("h2",{children:r.nombre}),v.jsxs("p",{children:["Entrenador: ",r.entrenador.nombre," — ",((d=r.jugadores)==null?void 0:d.length)||0," jugadores"]})]}),y&&v.jsxs("div",{className:"card",children:[v.jsx("h3",{style:{marginBottom:"16px"},children:"Jugadores del equipo"}),(c=r.jugadores)==null?void 0:c.map(f=>v.jsx("div",{className:"jugador-row",children:v.jsxs("div",{className:"jugador-info",children:[v.jsx("div",{className:"jugador-avatar",children:f.nombre.charAt(0).toUpperCase()}),v.jsxs("div",{children:[v.jsx("div",{style:{fontWeight:"600",fontSize:"0.95rem"},children:f.nombre}),v.jsx("div",{style:{color:"var(--texto-suave)",fontSize:"0.8rem"},children:f.email})]})]})},f.id)),(!r.jugadores||r.jugadores.length===0)&&v.jsx("p",{style:{color:"var(--texto-suave)",fontSize:"0.9rem",marginBottom:"12px"},children:"No hay jugadores todavia"}),v.jsxs("form",{onSubmit:w,style:{display:"flex",gap:"8px",marginTop:"16px"},children:[v.jsx("input",{type:"email",placeholder:"Email del jugador",value:u,onChange:f=>s(f.target.value),required:!0,style:{flex:1,padding:"10px 14px",border:"2px solid var(--borde)",borderRadius:"10px",fontSize:"0.9rem",fontFamily:"inherit"}}),v.jsx("button",{type:"submit",className:"btn btn-outline",children:"Anadir"})]})]}),v.jsxs("div",{className:"flex-between",style:{marginTop:"28px"},children:[v.jsx("h3",{style:{fontSize:"1.2rem",fontWeight:"700"},children:"Convocatorias"}),y&&v.jsx("button",{className:"btn btn-primary",onClick:()=>m(!p),children:p?"Cancelar":"+ Nueva convocatoria"})]}),p&&v.jsxs("form",{onSubmit:x,className:"card",children:[v.jsxs("div",{className:"form-group",children:[v.jsx("label",{children:"Titulo"}),v.jsx("input",{value:a.titulo,onChange:f=>h({...a,titulo:f.target.value}),placeholder:"Ej: Partido vs Alzira",required:!0})]}),v.jsxs("div",{className:"form-group",children:[v.jsx("label",{children:"Descripcion"}),v.jsx("textarea",{value:a.descripcion,onChange:f=>h({...a,descripcion:f.target.value}),rows:"3",placeholder:"Detalles de la convocatoria"})]}),v.jsxs("div",{style:{display:"grid",gridTemplateColumns:"1fr 1fr",gap:"12px"},children:[v.jsxs("div",{className:"form-group",children:[v.jsx("label",{children:"Fecha y hora"}),v.jsx("input",{type:"datetime-local",value:a.fecha,onChange:f=>h({...a,fecha:f.target.value}),required:!0})]}),v.jsxs("div",{className:"form-group",children:[v.jsx("label",{children:"Lugar"}),v.jsx("input",{value:a.lugar,onChange:f=>h({...a,lugar:f.target.value}),placeholder:"Ej: Campo Municipal"})]})]}),v.jsx("button",{type:"submit",className:"btn btn-primary",children:"Crear convocatoria"})]}),i.map(f=>v.jsx("div",{className:"card card-clickable",onClick:()=>t("/convocatoria/"+f.id),children:v.jsxs("div",{style:{display:"flex",justifyContent:"space-between",alignItems:"center"},children:[v.jsxs("div",{children:[v.jsx("h3",{children:f.titulo}),v.jsxs("p",{children:[f.lugar," — ",new Date(f.fecha).toLocaleString("es-ES")]})]}),v.jsx("span",{style:{color:"var(--primary)",fontSize:"1.2rem"},children:"›"})]})},f.id)),i.length===0&&v.jsxs("div",{className:"empty-state",children:[v.jsx("div",{className:"empty-icon",children:"📅"}),v.jsx("p",{children:"No hay convocatorias todavia"})]})]}):v.jsx("div",{className:"container",children:v.jsx("p",{children:"Cargando..."})})}function Xh(){const{id:e}=Yc(),t=xn(),[n,r]=S.useState([]);S.useEffect(()=>{_s(e).then(r)},[e]);async function l(a){await Wh(e,a),_s(e).then(r)}const i=n.find(a=>a.jugador.id===(t==null?void 0:t.id)),o=n.filter(a=>a.estado==="CONFIRMADO").length,u=n.filter(a=>a.estado==="RECHAZADO").length,s=n.filter(a=>a.estado==="PENDIENTE").length;return v.jsxs("div",{className:"container",children:[v.jsxs("div",{className:"page-header",children:[v.jsx("h2",{children:"Asistencia"}),v.jsxs("p",{children:[n.length," jugadores convocados"]})]}),v.jsxs("div",{className:"stat-cards",children:[v.jsxs("div",{className:"stat-card",children:[v.jsx("div",{className:"stat-number",style:{color:"var(--accent)"},children:o}),v.jsx("p",{children:"Confirmados"})]}),v.jsxs("div",{className:"stat-card",children:[v.jsx("div",{className:"stat-number",style:{color:"var(--rojo)"},children:u}),v.jsx("p",{children:"Rechazados"})]}),v.jsxs("div",{className:"stat-card",children:[v.jsx("div",{className:"stat-number",style:{color:"var(--amarillo)"},children:s}),v.jsx("p",{children:"Pendientes"})]})]}),i&&v.jsxs("div",{className:"card",children:[v.jsx("h3",{style:{marginBottom:"12px"},children:"Tu respuesta"}),v.jsxs("p",{style:{marginBottom:"16px"},children:["Estado actual: ",v.jsx("span",{className:"badge badge-"+i.estado.toLowerCase(),children:i.estado})]}),v.jsxs("div",{style:{display:"flex",gap:"10px"},children:[v.jsx("button",{className:"btn btn-accent",onClick:()=>l("CONFIRMADO"),children:"Confirmar asistencia"}),v.jsx("button",{className:"btn btn-danger",onClick:()=>l("RECHAZADO"),children:"No puedo ir"})]})]}),v.jsx("h3",{style:{marginTop:"28px",marginBottom:"16px",fontSize:"1.1rem",fontWeight:"700"},children:"Lista de jugadores"}),n.map(a=>v.jsx("div",{className:"card",style:{padding:"16px 24px"},children:v.jsxs("div",{className:"jugador-row",style:{borderBottom:"none",padding:0},children:[v.jsxs("div",{className:"jugador-info",children:[v.jsx("div",{className:"jugador-avatar",children:a.jugador.nombre.charAt(0).toUpperCase()}),v.jsx("span",{style:{fontWeight:"600"},children:a.jugador.nombre})]}),v.jsx("span",{className:"badge badge-"+a.estado.toLowerCase(),children:a.estado})]})},a.id))]})}function ci({children:e}){return xn()?e:v.jsx(kh,{to:"/login"})}function Gh(){return v.jsxs(v.Fragment,{children:[xn()&&v.jsx(Vh,{}),v.jsxs(Ch,{children:[v.jsx(Wt,{path:"/login",element:v.jsx(Qh,{})}),v.jsx(Wt,{path:"/register",element:v.jsx(Kh,{})}),v.jsx(Wt,{path:"/",element:v.jsx(ci,{children:v.jsx(Yh,{})})}),v.jsx(Wt,{path:"/equipo/:id",element:v.jsx(ci,{children:v.jsx(Jh,{})})}),v.jsx(Wt,{path:"/convocatoria/:id",element:v.jsx(ci,{children:v.jsx(Xh,{})})})]})]})}fi.createRoot(document.getElementById("root")).render(v.jsx(Th,{children:v.jsx(Gh,{})}));

diff --git a/backend/src/main/resources/static/assets/index-BFEcbR4Z.css b/backend/src/main/resources/static/assets/index-BFEcbR4Z.css
@@ -1,0 +1,1 @@
+@import"https://fonts.googleapis.com/css2?family=Inter:wght@400;500;600;700;800&display=swap";*{box-sizing:border-box;margin:0;padding:0}:root{--primary: #6C5CE7;--primary-dark: #5A4BD1;--primary-light: #A29BFE;--accent: #00CEC9;--accent-dark: #00B5B0;--oscuro: #0F0E17;--oscuro2: #1A1A2E;--fondo: #F8F9FE;--texto: #1A1A2E;--texto-suave: #6B7280;--borde: #E5E7EB;--rojo: #FF6B6B;--rojo-bg: #FFF0F0;--verde: #00CEC9;--verde-bg: #E8FAF9;--amarillo: #FBBF24;--amarillo-bg: #FEF9E7;--blanco: #FFFFFF;--sombra: 0 4px 6px -1px rgba(0, 0, 0, .07), 0 2px 4px -2px rgba(0, 0, 0, .05);--sombra-lg: 0 10px 25px -3px rgba(0, 0, 0, .1), 0 4px 6px -4px rgba(0, 0, 0, .1);--sombra-hover: 0 20px 40px -4px rgba(108, 92, 231, .2);--radio: 12px;--transicion: all .2s ease}body{font-family:Inter,system-ui,-apple-system,sans-serif;background:var(--fondo);color:var(--texto);line-height:1.6}.navbar{background:linear-gradient(135deg,var(--oscuro) 0%,var(--oscuro2) 100%);color:#fff;padding:0 32px;display:flex;justify-content:space-between;align-items:center;height:64px;box-shadow:0 4px 20px #00000026;position:sticky;top:0;z-index:100}.navbar h1{font-size:1.3rem;font-weight:800;letter-spacing:-.5px;background:linear-gradient(135deg,var(--primary-light),var(--accent));-webkit-background-clip:text;-webkit-text-fill-color:transparent}.navbar-right{display:flex;align-items:center;gap:16px}.navbar-user{font-size:.85rem;color:#ffffffb3}.navbar-user strong{color:#fff;font-weight:600}.navbar button{background:#ffffff14;border:1px solid rgba(255,255,255,.15);color:#fff;padding:8px 18px;border-radius:8px;cursor:pointer;font-size:.85rem;font-weight:500;transition:var(--transicion)}.navbar button:hover{background:#ffffff26;border-color:#ffffff4d}.container{max-width:960px;margin:32px auto;padding:0 20px}.page-header{margin-bottom:28px}.page-header h2{font-size:1.8rem;font-weight:800;letter-spacing:-.5px;color:var(--texto)}.page-header p{color:var(--texto-suave);margin-top:4px}.card{background:var(--blanco);border:1px solid var(--borde);border-radius:var(--radio);padding:24px;margin-bottom:16px;box-shadow:var(--sombra);transition:var(--transicion)}.card-clickable{cursor:pointer}.card-clickable:hover{transform:translateY(-2px);box-shadow:var(--sombra-hover);border-color:var(--primary-light)}.card h3{margin-bottom:6px;font-weight:700;font-size:1.1rem}.card p{color:var(--texto-suave);font-size:.9rem}.card-icon{width:44px;height:44px;border-radius:10px;display:flex;align-items:center;justify-content:center;font-size:1.3rem;margin-bottom:14px}.card-icon-purple{background:#f0edff}.card-icon-teal{background:#e8faf9}.card-icon-orange{background:#fff3e6}.btn{display:inline-flex;align-items:center;justify-content:center;gap:6px;padding:10px 22px;border:none;border-radius:10px;font-size:.9rem;font-weight:600;cursor:pointer;text-decoration:none;transition:var(--transicion);font-family:inherit}.btn-primary{background:linear-gradient(135deg,var(--primary),var(--primary-dark));color:#fff;box-shadow:0 4px 12px #6c5ce74d}.btn-primary:hover{transform:translateY(-1px);box-shadow:0 6px 20px #6c5ce766}.btn-accent{background:linear-gradient(135deg,var(--accent),var(--accent-dark));color:#fff;box-shadow:0 4px 12px #00cec94d}.btn-danger{background:linear-gradient(135deg,var(--rojo),#ee5a5a);color:#fff;box-shadow:0 4px 12px #ff6b6b4d}.btn-danger:hover{transform:translateY(-1px);box-shadow:0 6px 20px #ff6b6b66}.btn-outline{background:var(--blanco);border:2px solid var(--borde);color:var(--texto)}.btn-outline:hover{border-color:var(--primary);color:var(--primary);background:#f8f7ff}.form-group{margin-bottom:18px}.form-group label{display:block;margin-bottom:6px;font-weight:600;font-size:.85rem;color:var(--texto)}.form-group input,.form-group select,.form-group textarea{width:100%;padding:12px 14px;border:2px solid var(--borde);border-radius:10px;font-size:.95rem;font-family:inherit;transition:var(--transicion);background:var(--blanco)}.form-group input:focus,.form-group select:focus,.form-group textarea:focus{outline:none;border-color:var(--primary);box-shadow:0 0 0 3px #6c5ce71a}.error{color:var(--rojo);font-size:.85rem;margin-bottom:14px;padding:10px 14px;background:var(--rojo-bg);border-radius:8px;font-weight:500}.badge{display:inline-flex;align-items:center;padding:5px 12px;border-radius:20px;font-size:.75rem;font-weight:700;letter-spacing:.3px;text-transform:uppercase}.badge-pendiente{background:var(--amarillo-bg);color:#92400e}.badge-confirmado{background:var(--verde-bg);color:#065f46}.badge-rechazado{background:var(--rojo-bg);color:#991b1b}.grid{display:grid;grid-template-columns:repeat(auto-fill,minmax(280px,1fr));gap:20px}.flex-between{display:flex;justify-content:space-between;align-items:center;margin-bottom:20px}.login-bg{min-height:100vh;display:flex;align-items:center;justify-content:center;background:linear-gradient(135deg,var(--oscuro) 0%,var(--oscuro2) 50%,#16213E 100%);padding:20px;position:relative;overflow:hidden}.bouncing-icon{position:absolute;left:0;top:0;pointer-events:none;will-change:transform;z-index:0;opacity:.5;border-radius:50%;overflow:hidden}.login-card{background:var(--blanco);border-radius:16px;padding:40px;width:100%;max-width:420px;position:relative;z-index:1;box-shadow:0 25px 60px #0000004d}.login-card h2{font-size:1.6rem;font-weight:800;margin-bottom:8px;letter-spacing:-.5px}.login-card .login-subtitle{color:var(--texto-suave);font-size:.9rem;margin-bottom:28px}.login-logo{font-size:2rem;font-weight:800;margin-bottom:32px;text-align:center;background:linear-gradient(135deg,var(--primary-light),var(--accent));-webkit-background-clip:text;-webkit-text-fill-color:transparent}.stat-cards{display:flex;gap:16px;margin:20px 0}.stat-card{flex:1;background:var(--blanco);border-radius:var(--radio);padding:20px;text-align:center;box-shadow:var(--sombra);border:1px solid var(--borde)}.stat-card .stat-number{font-size:2.2rem;font-weight:800;line-height:1;margin-bottom:4px}.stat-card p{color:var(--texto-suave);font-size:.8rem;font-weight:600;text-transform:uppercase;letter-spacing:.5px}.empty-state{text-align:center;padding:48px 20px;color:var(--texto-suave)}.empty-state .empty-icon{font-size:3rem;margin-bottom:12px;opacity:.5}.jugador-row{display:flex;justify-content:space-between;align-items:center;padding:12px 0;border-bottom:1px solid var(--borde)}.jugador-row:last-child{border-bottom:none}.jugador-info{display:flex;align-items:center;gap:12px}.jugador-avatar{width:36px;height:36px;border-radius:50%;background:linear-gradient(135deg,var(--primary-light),var(--accent));display:flex;align-items:center;justify-content:center;color:#fff;font-weight:700;font-size:.85rem}

diff --git a/frontend/src/pages/Login.jsx b/frontend/src/pages/Login.jsx
@@ -5,13 +5,13 @@ import { login, setToken, setUser } from '../api'
 const BALL_IMAGES = ['/balls/soccer.png', '/balls/basketball.png', '/balls/baseball.png', '/balls/tennis.png', '/balls/volleyball.png', '/balls/football.png', '/balls/hockey.png']
 
 const BALLS = [
-  { size: 90, speed: 2.5, rot: 1.2 },
-  { size: 100, speed: 3, rot: -1 },
-  { size: 80, speed: 2.8, rot: 1.4 },
-  { size: 70, speed: 3.5, rot: -1.6 },
-  { size: 95, speed: 2.2, rot: 0.9 },
-  { size: 75, speed: 3.2, rot: -1.3 },
-  { size: 65, speed: 3.8, rot: 1.5 },
+  { size: 120, speed: 2.5, rot: 1.2 },
+  { size: 140, speed: 3, rot: -1 },
+  { size: 110, speed: 2.8, rot: 1.4 },
+  { size: 100, speed: 3.5, rot: -1.6 },
+  { size: 130, speed: 2.2, rot: 0.9 },
+  { size: 105, speed: 3.2, rot: -1.3 },
+  { size: 95, speed: 3.8, rot: 1.5 },
 ]
 
 function Login() {

diff --git a/backend/src/main/resources/static/index.html b/backend/src/main/resources/static/index.html
@@ -4,8 +4,8 @@
     <meta charset="UTF-8" />
     <meta name="viewport" content="width=device-width, initial-scale=1.0" />
     <title>ClubPlan</title>
-    <script type="module" crossorigin src="/assets/index-JKRhxKgQ.js"></script>
-    <link rel="stylesheet" crossorigin href="/assets/index-CVsvgDnK.css">
+    <script type="module" crossorigin src="/assets/index-DDRv2PJQ.js"></script>
+    <link rel="stylesheet" crossorigin href="/assets/index-BFEcbR4Z.css">
   </head>
   <body>
     <div id="root"></div>

diff --git a/frontend/src/index.css b/frontend/src/index.css
@@ -295,7 +295,9 @@ body {
   pointer-events: none;
   will-change: transform;
   z-index: 0;
-  opacity: 0.45;
+  opacity: 0.5;
+  border-radius: 50%;
+  overflow: hidden;
 }
 
 .login-card {
